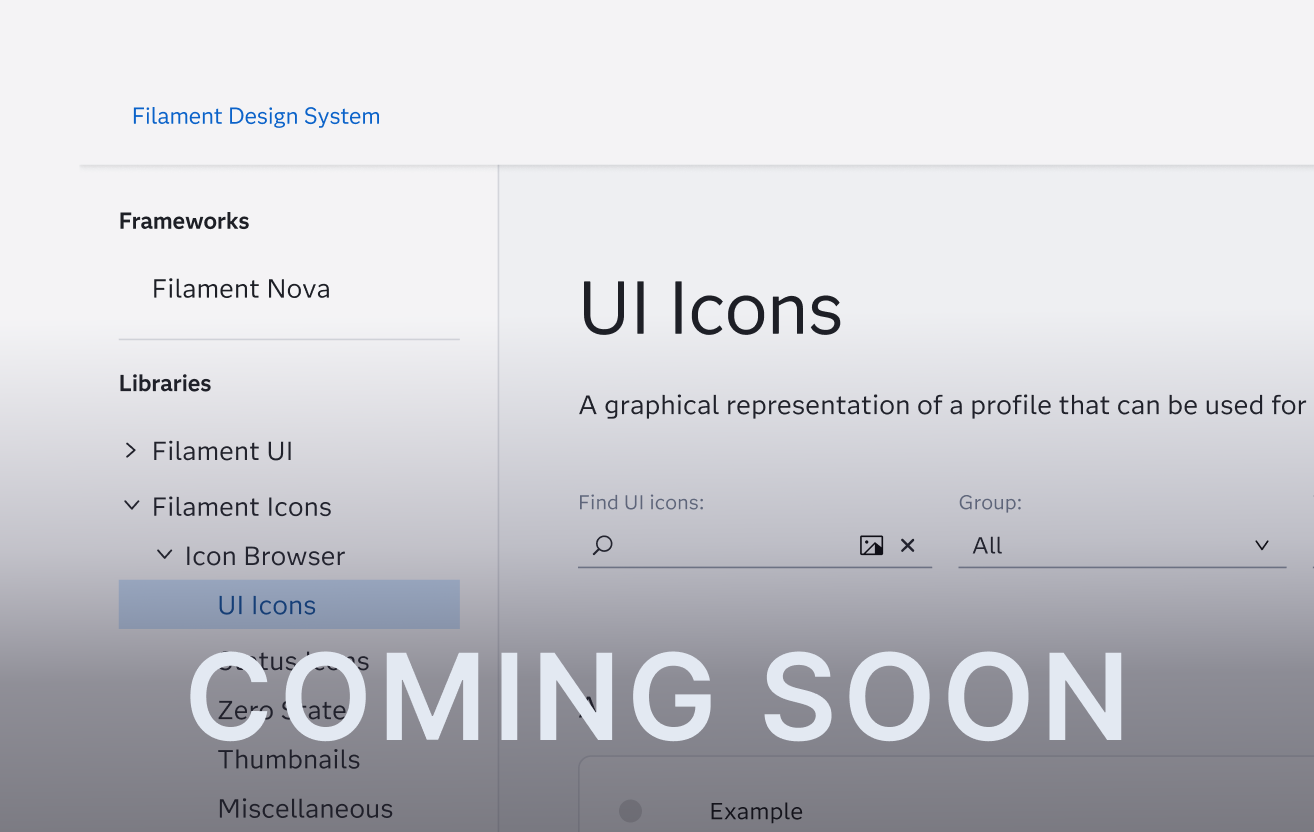
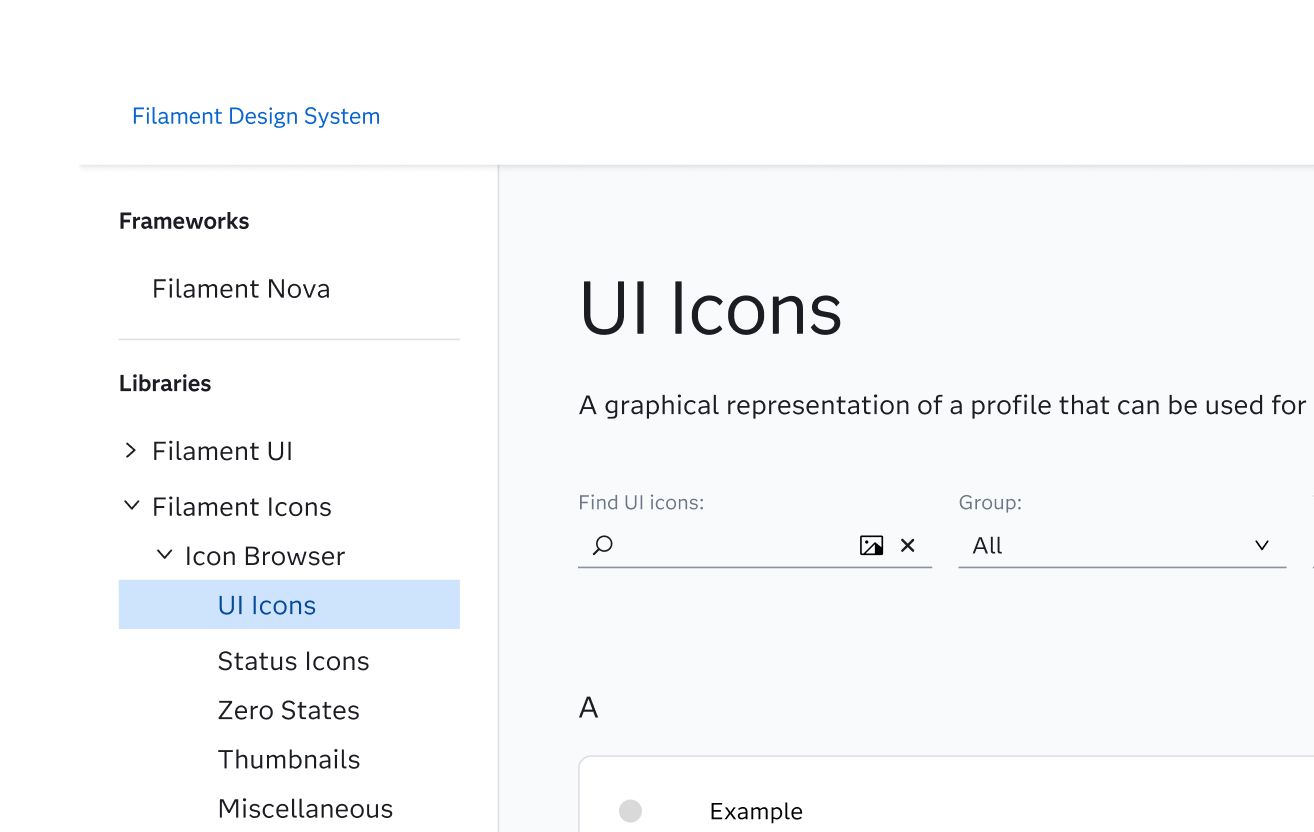
added secondary thumbnail & coming soon button tag

diff --git a/styles.css b/styles.css
@@ -38,7 +38,6 @@ nav {
 }
 
 /* Global link reset - applies to content links only */
-/* Global link reset - applies to content links only */
 a:not(.logo):not(.nav-links a):not(.section-nav a):not(.cta-button):not(.case-study-btn) {
     color: rgb(213, 221, 234) !important;
     text-decoration: underline !important;
@@ -151,16 +150,14 @@ a:not(.logo):not(.nav-links a):not(.section-nav a):not(.cta-button):not(.case-st
     padding: 20px;
     font-size: 4rem;
     margin-bottom: 1rem;
-    /*opacity: 0;*/
-    /*animation: fadeInUp 1s ease 0.5s forwards;*/
 }
 
 .gradient-text {
     background: linear-gradient(270deg, #6daffb, #9164fb, #00eeff, #ed4cff);
     background-size: 300% 300%;
     background-clip: text;
-    -webkit-background-clip: text; /* Chrome, Safari, Opera */
-    color: transparent; /* make the actual text transparent */
+    -webkit-background-clip: text;
+    color: transparent;
     animation: gradientFlow 10s ease infinite;
 }
 
@@ -194,6 +191,26 @@ a:not(.logo):not(.nav-links a):not(.section-nav a):not(.cta-button):not(.case-st
     transform: translateX(-50%);
     padding: 0 2rem;
 }
+
+
+.project-card-soon {
+    position: relative;
+    background: transparent;
+    border-radius: 0;
+    overflow: visible;
+    backdrop-filter: none;
+    border: none;
+    transition: all 0.3s ease;
+    cursor: pointer;
+    display: flex;
+    flex-direction: row;
+    align-items: center;
+    gap: 4rem;
+    box-shadow: none;
+    min-height: auto;
+    max-height: none;
+}
+
 
 .project-card {
     position: relative;
@@ -235,14 +252,16 @@ a:not(.logo):not(.nav-links a):not(.section-nav a):not(.cta-button):not(.case-st
     display: flex;
     align-items: center;
     justify-content: center;
-    overflow: hidden;
+    overflow: visible;
     flex-shrink: 0;
     border-radius: 20px;
     transition: all 0.3s ease;
+    position: relative;
+    z-index: 0;
 }
 
 .project-card:hover .project-image {
-    transform: scale(1.02);
+    transform: scale(1.03);
     box-shadow: 0 20px 40px rgba(0,0,0,0.3);
 }
 
@@ -251,6 +270,48 @@ a:not(.logo):not(.nav-links a):not(.section-nav a):not(.cta-button):not(.case-st
     height: 100%;
     object-fit: cover;
     object-position: center;
+    border-radius: 20px;
+    z-index: 3;
+}
+
+/* Secondary thumbnail that appears on hover */
+.project-image::before {
+    content: '';
+    position: absolute;
+    top: -65%;
+    left: 50%;
+    transform: translateX(-50%) scale(1);
+    width: 100%;
+    height: 100%;
+    background-image: var(--secondary-image);
+    background-size: cover;
+    background-position: center;
+    border-radius: 20px;
+    opacity: 0;
+    pointer-events: none;
+    transition: opacity 0.4s ease;
+    z-index: 1; /* places it behind main thumbnail */
+    pointer-events: none; 
+}
+
+.project-card:hover .project-image::before {
+    opacity: 1;
+    animation: bounceIn 0.6s cubic-bezier(0.68, -0.55, 0.265, 1.55);
+    z-index: 1; /* Place this *behind* the main image */
+}
+
+@keyframes bounceIn {
+    0% {
+        transform: translateX(-50%) translateY(20px) scale(1);
+        opacity: 0;
+    }
+    50% {
+        transform: translateX(-50%) translateY(-5px) scale(1.05);
+    }
+    100% {
+        transform: translateX(-50%) translateY(0) scale(1);
+        opacity: 1;
+    }
 }
 
 .project-content {
@@ -297,6 +358,7 @@ a:not(.logo):not(.nav-links a):not(.section-nav a):not(.cta-button):not(.case-st
     gap: 0.5rem;
 }
 
+
 .label-in {
     background: #3e414344;
     color: #dee0e9;
@@ -307,6 +369,14 @@ a:not(.logo):not(.nav-links a):not(.section-nav a):not(.cta-button):not(.case-st
     font-weight: 500;
 }
 
+.label-in-soon {
+    background: #c3c7dd;
+    color: #191d20;
+    font-weight: 600;
+    font-size: 1rem;
+    padding: 0.4rem 0.8rem;
+    border-radius: 20px;
+}
 
 @keyframes gradientShift {
     0% {
@@ -333,7 +403,7 @@ a:not(.logo):not(.nav-links a):not(.section-nav a):not(.cta-button):not(.case-st
 }
 
 /* Responsive Design */
-@media (max-width: 1300px) {
+@media (max-width: 1200px) {
     .projects-grid {
         width: 100%;
         padding: 0 1.5rem;
@@ -349,7 +419,7 @@ a:not(.logo):not(.nav-links a):not(.section-nav a):not(.cta-button):not(.case-st
     }
 }
 
-@media (max-width: 900px) {
+@media (max-width: 899px) {
     .projects-grid {
         padding: 0 1.5rem;
         gap: 4rem;
@@ -375,7 +445,7 @@ a:not(.logo):not(.nav-links a):not(.section-nav a):not(.cta-button):not(.case-st
     }
 }
 
-@media (max-width: 600px) {
+@media (max-width: 599px) {
     .hero h1 {
         font-size: 2.5rem;
     }

diff --git a/index.html b/index.html
@@ -55,7 +55,8 @@
     <section id="projects" class="section">
         <div class="projects-grid">
             <div class="project-card" onclick="window.location.href='tasktone.html'">
-                <div class="project-image" data-secondary-image="images/project_thumbnails/tasktone_thumbnail.png">
+                <div class="project-image" 
+                    style="--secondary-image: url('images/project_thumbnails/tasktone_thumbnail_2.png');">
                     <img src="images/project_thumbnails/tasktone_thumbnail.png" alt="TaskTone Project Thumbnail">
                 </div>
                 <div class="project-content">
@@ -73,7 +74,8 @@
             </div>
  
             <div class="project-card" onclick="window.location.href='sasfui.html'">
-                <div class="project-image" data-secondary-image="images/project_thumbnails/sas_thumbnail.png">
+                <div class="project-image" 
+                    style="--secondary-image: url('images/project_thumbnails/sas_thumbnail_2.png');">
                     <img src="images/project_thumbnails/sas_thumbnail.png" alt="SAS Project Thumbnail">
                 </div>
                 <div class="project-content">
@@ -91,7 +93,8 @@
             </div>
 
             <div class="project-card" onclick="window.location.href='navi.html'">
-                <div class="project-image" data-secondary-image="images/project_thumbnails/navi_thumbnail.png">
+                <div class="project-image" 
+                style="--secondary-image: url('images/project_thumbnails/navi_thumbnail_2.png');">
                     <img src="images/project_thumbnails/navi_thumbnail.png" alt="Navi Project Thumbnail">
                 </div>
                 <div class="project-content">
@@ -109,7 +112,8 @@
             </div>
 
             <div class="project-card" onclick="window.location.href='waddle.html'">
-                <div class="project-image" data-secondary-image="images/project_thumbnails/waddle_thumbnail.png">
+                <div class="project-image" 
+                    style="--secondary-image: url('images/project_thumbnails/waddle_thumbnail_2.png');">
                     <img src="images/project_thumbnails/waddle_thumbnail.png" alt="Waddle Project Thumbnail">
                 </div>
                 <div class="project-content">
@@ -126,14 +130,15 @@
                 </div>
             </div>
 
-            <div class="project-card" onclick="window.location.href='index.html'">
+            <div class="project-card-soon">
                 <div class="project-image" data-secondary-image="images/project_thumbnails/blobquiz_soon_thumbnail.png">
-                    <img src="images/project_thumbnails/blobquiz_soon_thumbnail.png" alt="Blobs Project Thumbnail">
+                    <img src="images/project_thumbnails/blobquiz_thumbnail.png" alt="Blobs Project Thumbnail">
                 </div>
                 <div class="project-content">
                     <h4-3>The Blobs We Are</h4-3>
                     <h3>Understanding Mental Health</h3>
                     <div class="project-labels-in">
+                        <span class="label-in-soon">COMING SOON</span>
                         <span class="label-in">Healthcare</span>
                         <span class="label-in">Video Game</span>
                         <span class="label-in">Teens & Children</span>
@@ -143,7 +148,7 @@
                 </div>
             </div>
 
-            <div class="project-card" onclick="window.location.href='index.html'">
+            <div class="project-card-soon">
                 <div class="project-image" data-secondary-image="images/project_thumbnails/sas_site_thumbnail.png">
                     <img src="images/project_thumbnails/sas_site_thumbnail.png" alt="SAS Site Project Thumbnail">
                 </div>
@@ -151,11 +156,11 @@
                     <h4-2>SAS Filament UI System</h4-2>
                     <h3>Website Concept Proposals</h3>
                     <div class="project-labels-in">
+                        <span class="label-in-soon">COMING SOON</span>
                         <span class="label-in">Website Design</span>
                         <span class="label-in">Summer Internship</span>
                         <span class="label-in">Quantitative Data</span>
                         <span class="label-in">Iterative Feedback</span>
-                        <span class="label-in">Design Constraints</span>
                         <span class="label-in">User Research</span>
                     </div>
                 </div>

diff --git a/script.js b/script.js
@@ -163,7 +163,13 @@ document.addEventListener('click', (e) => {
         }, i * 100);
     }
 
-    // word scrolling thing
+    // secondary thumbnail
+    document.querySelectorAll('.project-image').forEach(img => {
+        const secondaryImage = img.getAttribute('data-secondary-image');
+        if (secondaryImage) {
+            img.style.setProperty('--secondary-image', `url(${secondaryImage})`);
+        }
+    });
   
 
 });
